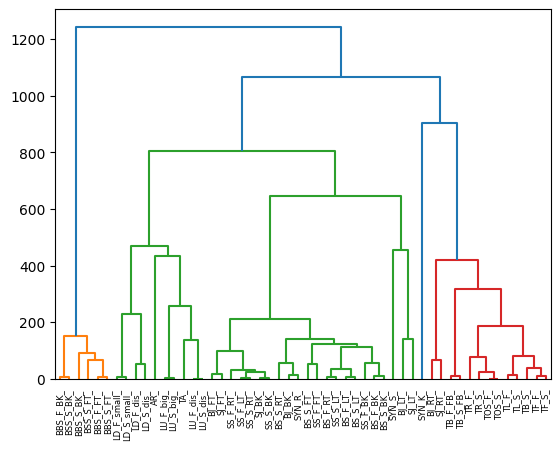
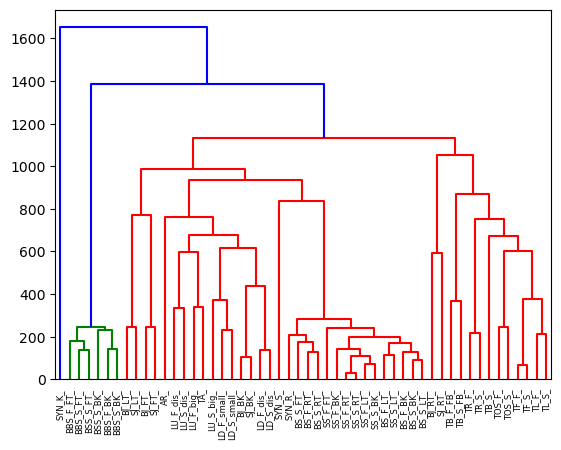
updates to LB Keough dendro and filtered dimensions

diff --git a/metrics_msproject.py b/metrics_msproject.py
@@ -123,40 +123,6 @@ def compute_angle_vector(data):
     angle_torso_to_right_hip = getAngle(neck, midhip, right_hip)
     angle_torso_to_left_hip = getAngle(neck, midhip, left_hip)
 
-    # the commented part below includes a filtered version of the body_vector
-    # this filtered version was used to improve run time for clustering of the LB_Keough
-
-    body_vector = np.array([angle_nose_to_neck_to_left_shoulder,
-                            angle_nose_to_neck_to_right_shoulder,
-                            #angle_left_shoulder_to_right_shoulder,
-                            angle_left_shoulder_to_left_upper_arm,
-                            angle_left_lower_arm_to_left_upper_arm,
-                            angle_right_upper_arm_to_right_shoulder,
-                            angle_right_upper_arm_to_right_lower_arm,
-                            angle_left_eye_to_nose_to_left_ear_to_eye,
-                            angle_left_eye_to_nose_to_neck,
-                            #angle_nose_to_neck_to_right_eye_to_nose,
-                            angle_left_eye_to_nose_to_right_eye_to_nose,
-                            angle_right_eye_to_nose_to_right_ear_to_eye,
-                            ##angle_right_hip_to_right_upper_leg,
-                            angle_right_upper_leg_to_right_lower_leg,
-                            #angle_left_hip_to_left_upper_leg,
-                            #angle_left_upper_leg_to_left_lower_leg,
-                            #angle_left_lower_leg_left_ankle_to_heel,
-                            ##angle_right_lower_leg_to_right_ankle_to_heel,
-                            ##angle_right_foot_to_right_toes,
-                            ##angle_right_foot_to_right_lower_leg,
-                            angle_right_foot_to_right_ankle_to_heel,
-                            ##angle_left_foot_to_left_lower_leg,
-                            angle_left_foot_to_left_ankle_to_heel,
-                            ##angle_left_foot_to_left_toes,
-                            angle_torso_to_right_shoulder,
-                            angle_torso_to_left_shoulder,
-                            angle_torso_to_nose_to_neck#,
-                            #angle_torso_to_right_hip,
-                            #angle_torso_to_left_hip
-                            ])
-
     # body_vector = np.array([angle_nose_to_neck_to_left_shoulder,
     #                         angle_nose_to_neck_to_right_shoulder,
     #                         angle_left_shoulder_to_right_shoulder,
@@ -187,4 +153,38 @@ def compute_angle_vector(data):
     #                         angle_torso_to_right_hip,
     #                         angle_torso_to_left_hip
     #                         ])
+
+    # the commented part below includes a filtered version of the body_vector
+    # this filtered version was used to improve run time for clustering of the LB_Keough
+
+    body_vector = np.array([angle_nose_to_neck_to_left_shoulder,
+                            angle_nose_to_neck_to_right_shoulder,
+                            #angle_left_shoulder_to_right_shoulder,
+                            angle_left_shoulder_to_left_upper_arm,
+                            #angle_left_lower_arm_to_left_upper_arm,
+                            angle_right_upper_arm_to_right_shoulder,
+                            angle_right_upper_arm_to_right_lower_arm,
+                            angle_left_eye_to_nose_to_left_ear_to_eye,
+                            angle_left_eye_to_nose_to_neck,
+                            angle_nose_to_neck_to_right_eye_to_nose,
+                            angle_left_eye_to_nose_to_right_eye_to_nose,
+                            angle_right_eye_to_nose_to_right_ear_to_eye,
+                            angle_right_hip_to_right_upper_leg,
+                            #angle_right_upper_leg_to_right_lower_leg,
+                            #angle_left_hip_to_left_upper_leg,
+                            #angle_left_upper_leg_to_left_lower_leg,
+                            #angle_left_lower_leg_left_ankle_to_heel,
+                            #angle_right_lower_leg_to_right_ankle_to_heel,
+                            #angle_right_foot_to_right_toes,
+                            #angle_right_foot_to_right_lower_leg,
+                            angle_right_foot_to_right_ankle_to_heel,
+                            #angle_left_foot_to_left_lower_leg,
+                            angle_left_foot_to_left_ankle_to_heel,
+                            #angle_left_foot_to_left_toes,
+                            angle_torso_to_right_shoulder,
+                            angle_torso_to_left_shoulder,
+                            angle_torso_to_nose_to_neck#,
+                            #angle_torso_to_right_hip,
+                            #angle_torso_to_left_hip
+                            ])
     return body_vector

diff --git a/lb_keough/find_filtered_dimensions.py b/lb_keough/find_filtered_dimensions.py
@@ -2,17 +2,12 @@
 
 from common_funs import compute_df, compute_files_ls
 from lb_funs import calc_min_dist_MD, upper_envelope, lower_envelope, construct_lower_MBRs, construct_upper_MBRs
+from lb_funs import match_clustering_groups
 
 import numpy as np
-import pandas as pd
 import warnings
-import time
-import os
 
-from scipy.cluster.hierarchy import dendrogram, linkage
-from scipy.spatial.distance import squareform
 from sklearn.cluster import AgglomerativeClustering
-import matplotlib.pyplot as plt
 
 warnings.filterwarnings('ignore')
 
@@ -25,7 +20,6 @@ sakoe_chiba = 3
 # group files belonging to each video in a different sublist, combine all sublist into one list
 files_ls = compute_files_ls(path)
 dendro_arr_fill = np.zeros((n_videos, n_videos))
-start = time.time()
 for index_query in range(0, n_videos):
     # compute angle vectors for query video
     newDF_query = compute_df(path, files_ls, index_query)
@@ -47,18 +41,18 @@ for index_query in range(0, n_videos):
         dendro_arr_fill[index_query, g] = lb1
     print(index_query)
 
-end = time.time()
-print(end - start)
+ground_truth = [
+            ['BS_F_BK_', 'BS_F_LT_', 'BS_F_RT_', 'BS_S_BK_', 'BS_S_FT_', 'BS_S_LT_', 'BS_S_RT_', 'SS_F_BK_', 'SS_F_FT_',
+             'SS_F_LT_', 'SS_F_RT_', 'SS_S_BK_', 'SS_S_LT_', 'SS_S_RT_', 'SYN_R_', 'SYN_U_'],
+            ['LD_F_dis_', 'LD_F_small_', 'LD_S_dis_', 'LD_S_small_', 'LU_F_dis_', 'LU_S_dis_'],
+            ['BJ_FT_', 'SJ_FT_'],
+            ['AR_', 'TA_', 'LU_F_big_', 'LU_S_big_'],
+            ['BJ_RT_', 'SJ_RT_', 'BJ_LT_', 'SJ_LT_'],
+            ['BBS_F_BK_', 'BBS_F_FT_', 'BBS_S_BK_', 'BBS_S_FT_', 'BSS_S_BK_', 'BSS_S_FT_'],
+            ['TB_F_FB_', 'TB_S_', 'TB_S_FB_', 'TF_F_', 'TF_S_', 'TL_F_', 'TL_S_', 'TOS_F_', 'TOS_S_', 'TR_F_', 'TR_S_'],
+            ['SYN_K_'],
+            ['BJ_BK_', 'SJ_BK_']]
 
-dendro_arr_complete = dendro_arr_fill + dendro_arr_fill.T - np.diag(np.diag(dendro_arr_fill))
-pd.DataFrame(dendro_arr_complete).to_csv("LB_sim_arr_horizontal_filtered_csv")
-clustering = AgglomerativeClustering(n_clusters = n_clusters, affinity = 'precomputed', linkage = 'average').fit(dendro_arr_complete)
-file1 = open("LB_sim_arr_horizontal_filtered.txt", "w")
-txt_time = "time taken for simulation " + str(end - start)
-file1.writelines(str(clustering.labels_) + txt_time)
-file1.close()
-
-# create dendrogram
 files_names = []
 for i in range(0, n_videos):
     cont = False
@@ -71,9 +65,7 @@ for i in range(0, n_videos):
     if cont:
         continue
 
-dists = squareform(dendro_arr_complete)
-Z = linkage(dists, 'average')
-plt.figure()
-dn = dendrogram(Z, labels = files_names)
-os.path.abspath('/Dendrograms/')
-plt.savefig('./LB_dendro_horizontal_filtered.png', format='png', bbox_inches='tight')
+dendro_arr_complete = dendro_arr_fill + dendro_arr_fill.T - np.diag(np.diag(dendro_arr_fill))
+clustering = AgglomerativeClustering(n_clusters = n_clusters, affinity = 'precomputed', linkage = 'average').fit(dendro_arr_complete)
+number_matches = match_clustering_groups(ground_truth, files_names, clustering.labels_, 9)
+print(number_matches)
